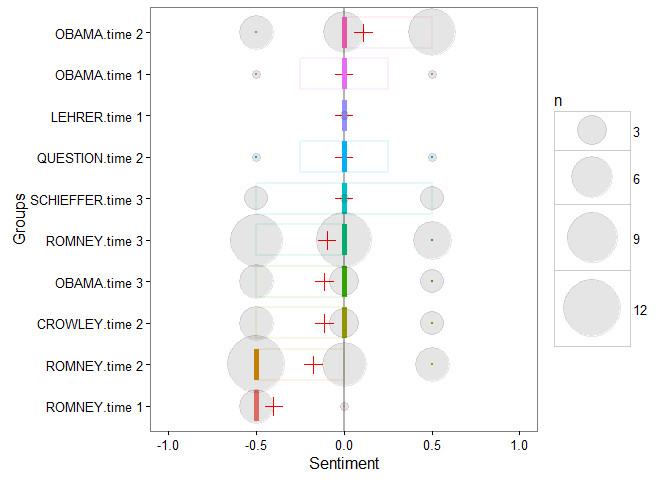
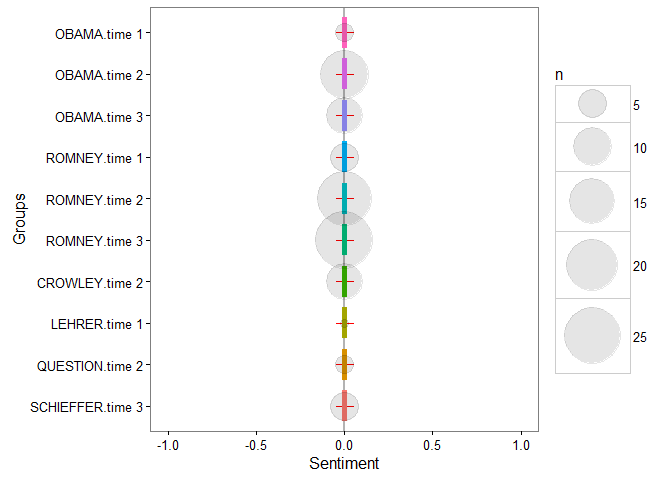
updated after new sentiment_stanford java code fails on some at not giving 2 outputs

diff --git a/README.md b/README.md
@@ -149,15 +149,26 @@ Load the Packages/Data
 --------------------
 
     out1 <- sentiment_stanford(mytext) 
+
+    ## Warning: running command 'java -cp "C:/stanford-corenlp-full-2015-12-09/*"
+    ## -mx5g edu.stanford.nlp.sentiment.SentimentPipeline -stdin' had status 1
+
+    ## Warning in sentiment_stanford_helper(sentences, stanford.tagger =
+    ## stanford.tagger, : NAs introduced by coercion
+
+    ## Warning in `[.data.table`(sent_dat[, list(sentences = unlist(sentences)), :
+    ## Supplied 2 items to be assigned to 5 items of column 'sentiment' (recycled
+    ## leaving remainder of 1 items).
+
     out1[["text"]] <- unlist(get_sentences(out1))
     out1
 
     ##    element_id sentence_id word_count sentiment                       text
-    ## 1:          1           1          4       0.0            do you like it?
-    ## 2:          1           2          6      -0.5 But I hate really bad dogs
-    ## 3:          2           1          5       0.5      I am the best friend.
-    ## 4:          3           1          5       0.0     Do you really like it?
-    ## 5:          3           2          4      -0.5              I'm not a fan
+    ## 1:          1           1          4         0            do you like it?
+    ## 2:          1           2          6         0 But I hate really bad dogs
+    ## 3:          2           1          5         0      I am the best friend.
+    ## 4:          3           1          5         0     Do you really like it?
+    ## 5:          3           2          4         0              I'm not a fan
 
 `sentiment_stanford_by`: Aggregation
 ------------------------------------
@@ -166,13 +177,24 @@ To aggregate by element (column cell or vector element) use
 `sentiment_stanford_by` with `by = NULL`.
 
     out2 <- sentiment_stanford_by(mytext) 
+
+    ## Warning: running command 'java -cp "C:/stanford-corenlp-full-2015-12-09/*"
+    ## -mx5g edu.stanford.nlp.sentiment.SentimentPipeline -stdin' had status 1
+
+    ## Warning in sentiment_stanford_helper(sentences, stanford.tagger =
+    ## stanford.tagger, : NAs introduced by coercion
+
+    ## Warning in `[.data.table`(sent_dat[, list(sentences = unlist(sentences)), :
+    ## Supplied 2 items to be assigned to 5 items of column 'sentiment' (recycled
+    ## leaving remainder of 1 items).
+
     out2[["text"]] <- mytext
     out2
 
-    ##    element_id word_count        sd ave_sentiment
-    ## 1:          1         10 0.3535534         -0.25
-    ## 2:          2          5        NA          0.50
-    ## 3:          3          9 0.3535534         -0.25
+    ##    element_id word_count sd ave_sentiment
+    ## 1:          1         10  0             0
+    ## 2:          2          5 NA             0
+    ## 3:          3          9  0             0
     ##                                           text
     ## 1: do you like it?  But I hate really bad dogs
     ## 2:                       I am the best friend.
@@ -181,39 +203,45 @@ To aggregate by element (column cell or vector element) use
 To aggregate by grouping variables use `sentiment_by` using the `by`
 argument.
 
+    ## Warning: running command 'java -cp "C:/stanford-corenlp-full-2015-12-09/*"
+    ## -mx5g edu.stanford.nlp.sentiment.SentimentPipeline -stdin' had status 1
+
+    ## Warning in sentiment_stanford_helper(sentences, stanford.tagger =
+    ## stanford.tagger, : NAs introduced by coercion
+
     (out3 <- with(dat, sentiment_stanford_by(dialogue, list(person, time))))
 
-    ##        person   time word_count        sd ave_sentiment
-    ##  1:     OBAMA time 2        207 0.4042260    0.11111111
-    ##  2:     OBAMA time 1         34 0.7071068    0.00000000
-    ##  3:    LEHRER time 1          2        NA    0.00000000
-    ##  4:  QUESTION time 2          7 0.7071068    0.00000000
-    ##  5: SCHIEFFER time 3         47 0.5000000    0.00000000
-    ##  6:    ROMNEY time 3        321 0.3746794   -0.09615385
-    ##  7:     OBAMA time 3        129 0.4166667   -0.11111111
-    ##  8:   CROWLEY time 2         72 0.4166667   -0.11111111
-    ##  9:    ROMNEY time 2        323 0.3875534   -0.17391304
-    ## 10:    ROMNEY time 1         95 0.2236068   -0.40000000
+    ##        person   time word_count sd ave_sentiment
+    ##  1:     OBAMA time 1         34  0             0
+    ##  2:     OBAMA time 2        207  0             0
+    ##  3:     OBAMA time 3        129  0             0
+    ##  4:    ROMNEY time 1         95  0             0
+    ##  5:    ROMNEY time 2        323  0             0
+    ##  6:    ROMNEY time 3        321  0             0
+    ##  7:   CROWLEY time 2         72  0             0
+    ##  8:    LEHRER time 1          2 NA             0
+    ##  9:  QUESTION time 2          7  0             0
+    ## 10: SCHIEFFER time 3         47  0             0
 
 Recycling
 ---------
 
 Note that the Stanford coreNLP functionality takes considerable time to
-compute (~14.8 seconds to compute `out` above). The output from
+compute (~0.2 seconds to compute `out` above). The output from
 `sentiment_stanford`/`sentiment_stanford_by` can be recycled inside of
 `sentiment_stanford_by`, reusing the raw scoring to save the new call to
 Java.
 
     with(dat, sentiment_stanford_by(out3, list(role, time)))
 
-    ##         role   time word_count        sd ave_sentiment
-    ## 1: moderator time 1          2        NA    0.00000000
-    ## 2: moderator time 3         47 0.5000000    0.00000000
-    ## 3:     other time 2          7 0.7071068    0.00000000
-    ## 4: candidate time 2        530 0.4154046   -0.04878049
-    ## 5: candidate time 3        450 0.3796283   -0.10000000
-    ## 6: moderator time 2         72 0.4166667   -0.11111111
-    ## 7: candidate time 1        129 0.3933979   -0.28571429
+    ##         role   time word_count sd ave_sentiment
+    ## 1: candidate time 1        129  0             0
+    ## 2: candidate time 2        530  0             0
+    ## 3: candidate time 3        450  0             0
+    ## 4: moderator time 1          2 NA             0
+    ## 5: moderator time 2         72  0             0
+    ## 6: moderator time 3         47  0             0
+    ## 7:     other time 2          7  0             0
 
 Plotting
 --------
